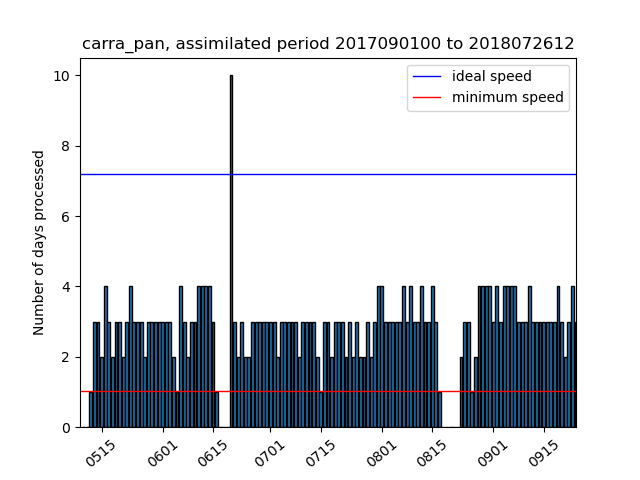
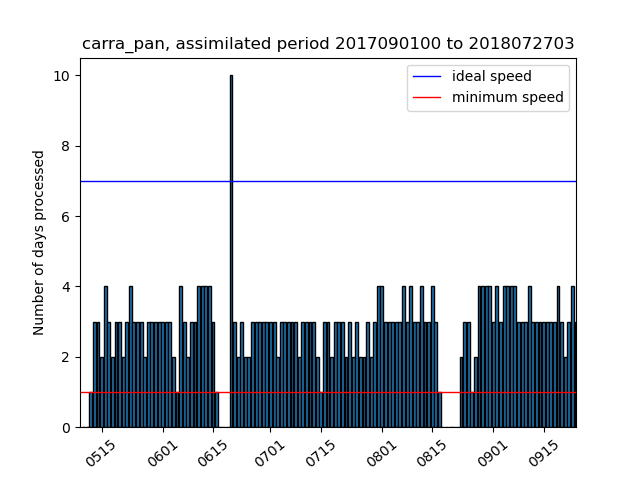
update repo

Changed region(s): [[0.125, 0.3438, 0.9062, 0.4062], [0.125, 0.8125, 0.9062, 0.8438], [0.8438, 0.0625, 0.9062, 0.125]]

diff --git a/current_state_sims.html b/current_state_sims.html
@@ -2,18 +2,18 @@
 <h1>Estimated completion dates and simulation speeds</h1>
 <p>Stream (production) completion date based on 30d (7d) moving avg speed</p>
 <p><a href="https://docs.google.com/document/d/1zDKAxuEXYnWWYzT3SZnZwY5WW8nodUMeYRjAGz46coc/edit#">Details of the calculation of the completion dates</a></p>
-<p>Last update: 2021/09/25 12:44:06 UTC</p>
+<p>Last update: 2021/09/25 18:44:53 UTC</p>
 <p>Total progress CARRA: 99.22% <a href="https://hirlam.org/portal/CARRA/Progress/GanntChart_CARRA.html"> (see detailed progress meter in Gantt chart) </a></p>
 <p>Total progress PANARCTIC: 90.91% </p>
 <p><a href="https://hirlam.org/portal/CARRA/Progress/waiting_times.html"> Queue waiting times for all streams</a></p>
 <p><a href="https://hirlam.org/portal/CARRA/Progress/mars_status.html"> MARS archive throughput </a></p>
 <html><table border="1"><tr><th>expId</th><th>Current assimilated date</th><th>End date of stream </th><th> Completion date</th><th> Avg. throughput (7d) </th> <th>Avg. throughput (30d) </th> <th> Remarks</tr>
-<tr bgcolor="#FFFFFF"><td>carra_NE_3</td><td>2021063000</td><td>2021063021</td><td>2021092512</td><td>(2.43) days/day</td><td>(3.57) days/day</td><td></tr>
+<tr bgcolor="#FFFFFF"><td>carra_NE_3</td><td>2021063000</td><td>2021063021</td><td>2021092518</td><td>(2.43) days/day</td><td>(3.57) days/day</td><td></tr>
 <tr bgcolor="#33FF38"><td>carra_NE_4</td><td>1992090100</td><td>1992083021</td><td>Finished on 20210824</td><td>(0.0) days/day</td><td>(0.0) days/day</td><td>Stream finished</tr>
 <tr bgcolor="#33FF38"><td>carra_NE_5</td><td>1994090100</td><td>1994083021</td><td>Finished on 20210824</td><td>(0.0) days/day</td><td>(0.0) days/day</td><td>Stream finished</tr>
-<tr bgcolor="#33FF38"><td>carra_NE_6</td><td>1997070100</td><td>1997063021</td><td>2021092507</td><td>(0.0) days/day</td><td>(4.87) days/day</td><td>Stream finished</tr>
-<tr bgcolor="#FFFFFF"><td>carra_IGB_3</td><td>2021063000</td><td>2021063021</td><td>2021092512</td><td>(3.14) days/day</td><td>(3.43) days/day</td><td></tr>
-<tr bgcolor="#33FF38"><td>carra_IGB_4</td><td>1992090100</td><td>1992083021</td><td>2021092418</td><td>(0.0) days/day</td><td>(2.67) days/day</td><td>Stream finished</tr>
-<tr bgcolor="#33FF38"><td>carra_IGB_5</td><td>1994090100</td><td>1994083021</td><td>2021092504</td><td>(6.14) days/day</td><td>(5.97) days/day</td><td>Stream finished</tr>
-<tr bgcolor="#FFA500"><td>carra_IGB_6</td><td>1996112600</td><td>1997063021</td><td>2021110108</td><td>(5.86) days/day</td><td>(5.87) days/day</td><td>Completion date after project end (20211031)</tr>
-<tr bgcolor="#FFFFFF"><td>carra_pan</td><td>2018072612</td><td>2018083121</td><td>2021100613</td><td>(3.14) days/day</td><td>(3.27) days/day</td><td></tr>
+<tr bgcolor="#33FF38"><td>carra_NE_6</td><td>1997070100</td><td>1997063021</td><td>2021092513</td><td>(0.0) days/day</td><td>(4.87) days/day</td><td>Stream finished</tr>
+<tr bgcolor="#FFFFFF"><td>carra_IGB_3</td><td>2021063000</td><td>2021063021</td><td>2021092518</td><td>(3.14) days/day</td><td>(3.43) days/day</td><td></tr>
+<tr bgcolor="#33FF38"><td>carra_IGB_4</td><td>1992090100</td><td>1992083021</td><td>2021092500</td><td>(0.0) days/day</td><td>(2.67) days/day</td><td>Stream finished</tr>
+<tr bgcolor="#33FF38"><td>carra_IGB_5</td><td>1994090100</td><td>1994083021</td><td>2021092510</td><td>(6.14) days/day</td><td>(5.97) days/day</td><td>Stream finished</tr>
+<tr bgcolor="#FFA500"><td>carra_IGB_6</td><td>1996112712</td><td>1997063021</td><td>2021110110</td><td>(5.86) days/day</td><td>(5.87) days/day</td><td>Completion date after project end (20211031)</tr>
+<tr bgcolor="#FFFFFF"><td>carra_pan</td><td>2018072703</td><td>2018083121</td><td>2021100611</td><td>(3.14) days/day</td><td>(3.27) days/day</td><td></tr>
